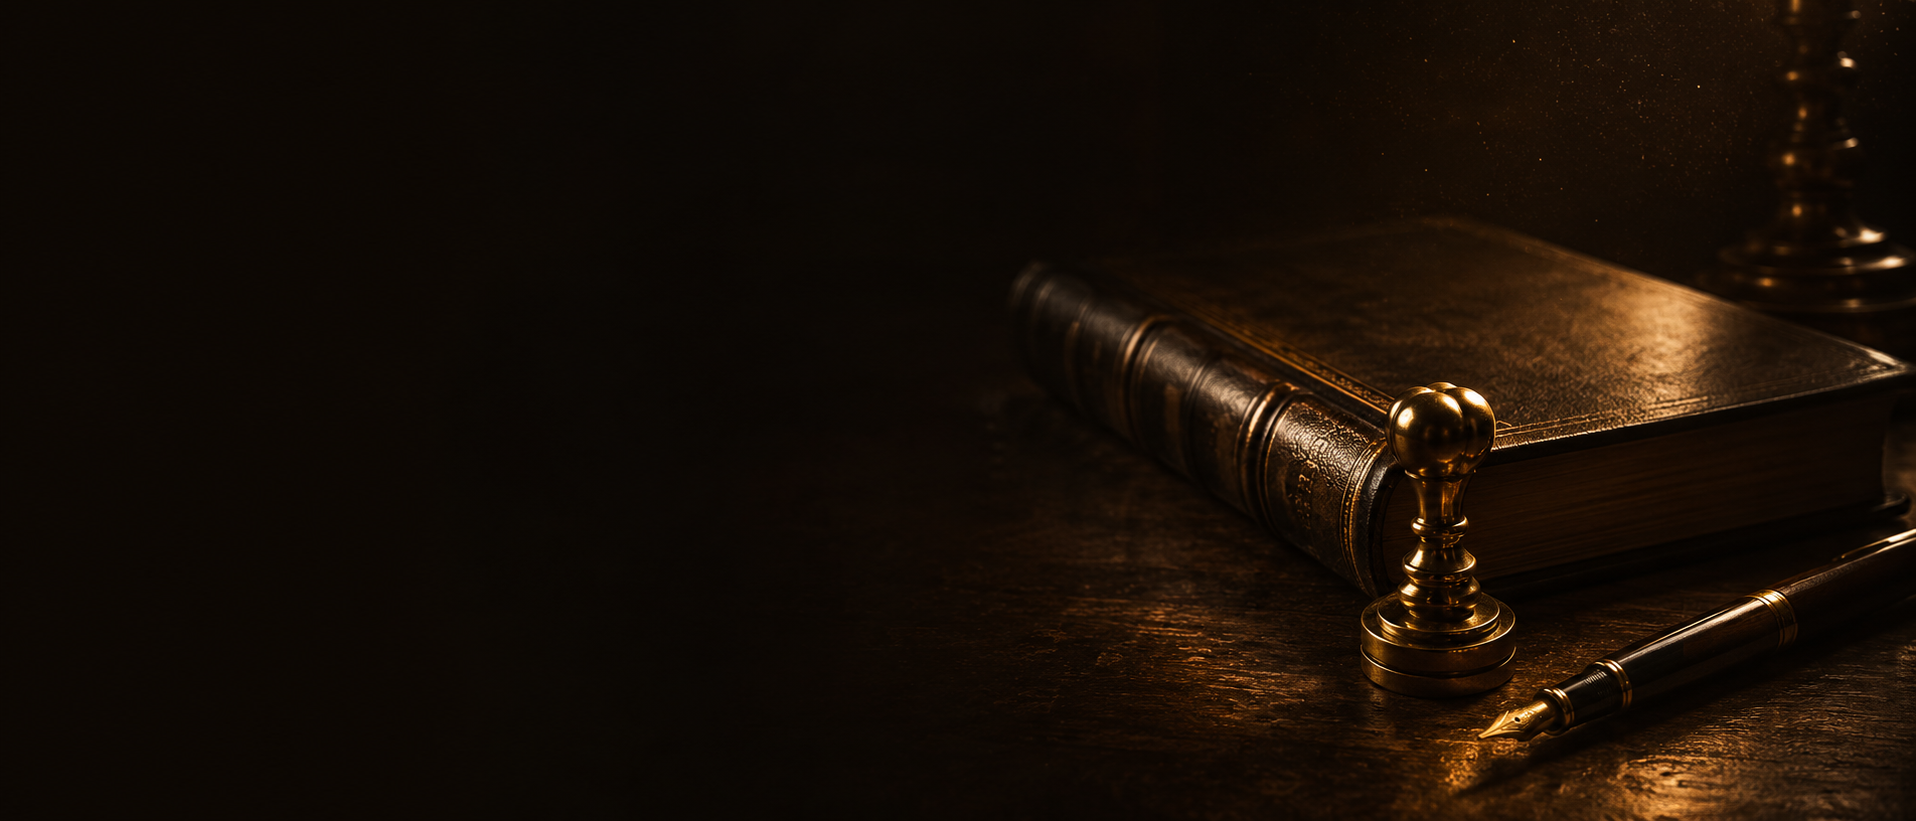
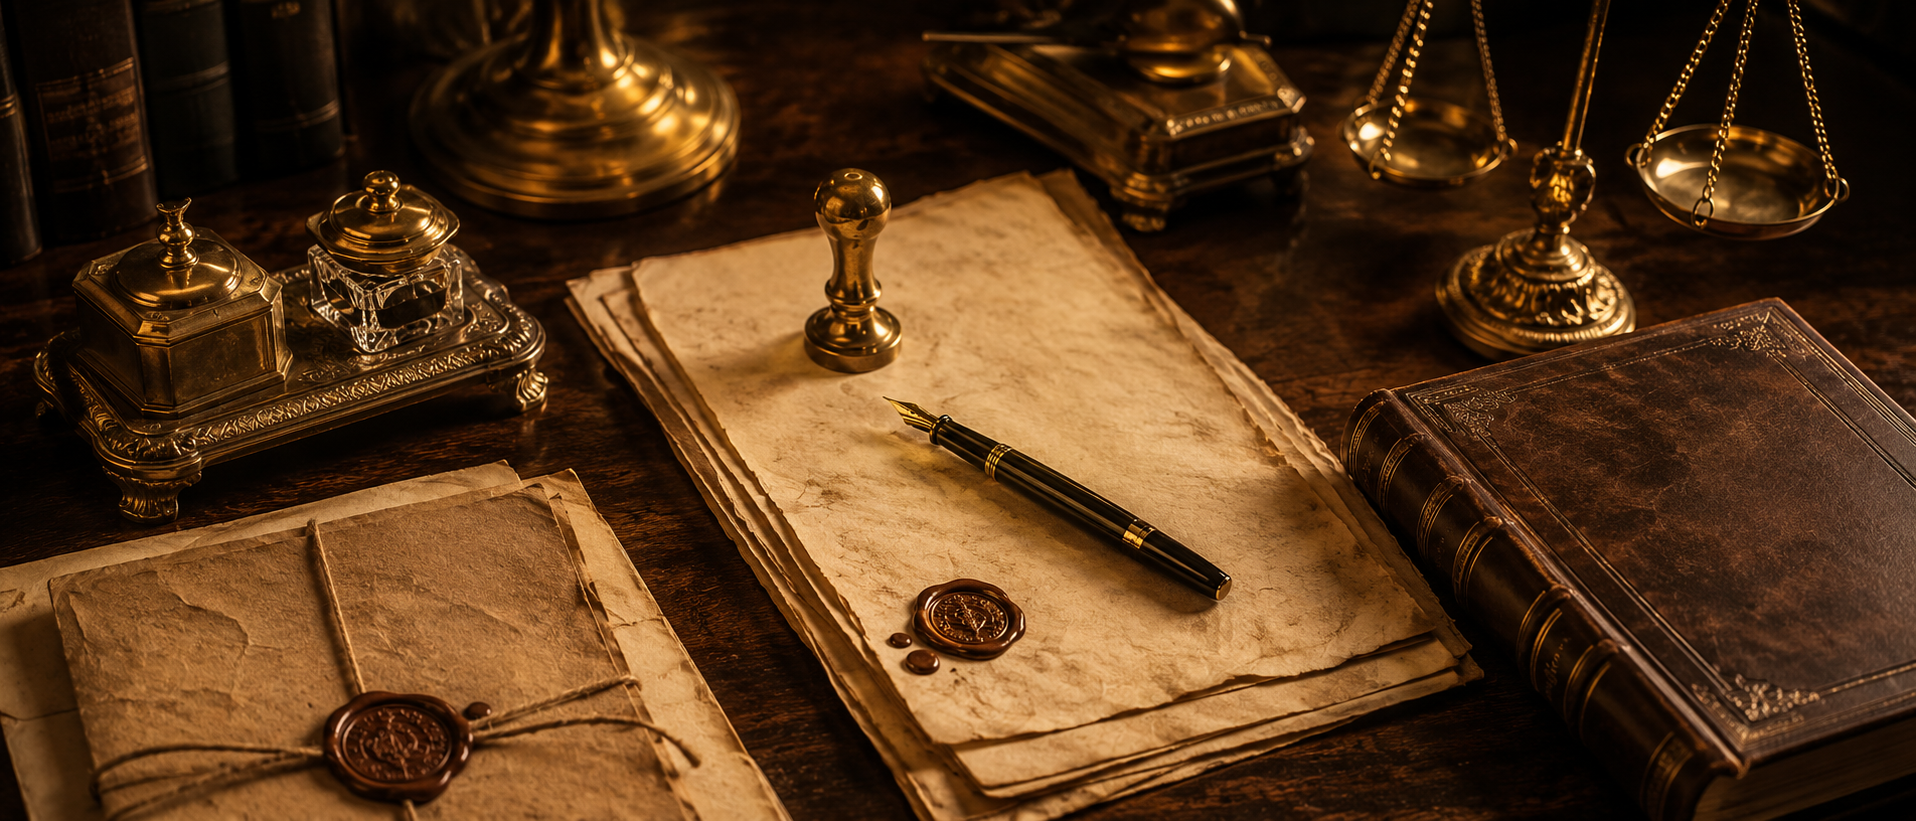
Anti-repetición: separar VI/VII/footer por función
- Ubicación (VI) = solo el lugar: dirección real (20 de Noviembre 810 Sur,
  Obispado) + mapa + Cómo llegar. Sin teléfonos/horario.
- Contacto (VII) = solo la acción: form + WhatsApp + teléfonos + horario.
- Footer adelgazado: marca + navegación + notario + enlace a contacto
  (sin repetir teléfonos/WhatsApp).
Resultado: teléfono/WhatsApp/horario aparecen 1 sola vez en la página.

diff --git a/src/sections/Ubicacion.tsx b/src/sections/Ubicacion.tsx
@@ -1,4 +1,4 @@
-import { MapPin, Clock, Phone, ExternalLink } from 'lucide-react'
+import { MapPin, ExternalLink } from 'lucide-react'
 import { BlurFade } from '@/components/ui/blur-fade'
 import { BorderBeam } from '@/components/ui/border-beam'
 import { Boxes } from '@/components/ui/background-boxes'
@@ -44,60 +44,33 @@ export function Ubicacion() {
         <Boxes />
 
         <div className="relative z-30 mx-auto grid max-w-7xl items-center gap-12 px-6 py-24 lg:grid-cols-[0.8fr_1.2fr] lg:px-20">
-          <BlurFade inView className="flex flex-col justify-center gap-4">
-            {[
-              {
-                icon: MapPin,
-                main: CONTACT.city,
-                sub: 'Primer Distrito Registral · Notaría Pública No. 18',
-              },
-              {
-                icon: Phone,
-                main: CONTACT.phones.join('  ·  '),
-                sub: 'Atención telefónica directa',
-                links: CONTACT.phones,
-              },
-              {
-                icon: Clock,
-                main: 'Lunes a viernes',
-                sub: 'Horario de oficina',
-              },
-            ].map((item, i) => (
-              <BlurFade key={i} inView delay={0.1 * i}>
-                <div className="group flex items-start gap-4 rounded-sm border border-gold-400/15 bg-ink/60 p-5 backdrop-blur-sm transition-colors duration-300 hover:border-gold-400/40">
-                  <item.icon className="mt-0.5 h-5 w-5 shrink-0 text-gold-400 transition-transform duration-300 group-hover:scale-110" />
-                  <div>
-                    {item.links ? (
-                      <div className="flex flex-col gap-0.5">
-                        {item.links.map((p) => (
-                          <a
-                            key={p}
-                            href={`tel:+52${p.replace(/-/g, '')}`}
-                            className="text-base text-cream/90 transition-colors hover:text-gold-400"
-                          >
-                            {p}
-                          </a>
-                        ))}
-                      </div>
-                    ) : (
-                      <p className="text-base text-cream/90">{item.main}</p>
-                    )}
-                    <p className="mt-1 text-xs text-cream/50">{item.sub}</p>
-                  </div>
-                </div>
-              </BlurFade>
-            ))}
+          <BlurFade inView className="flex flex-col justify-center">
+            <p className="mb-5 text-[10px] font-medium uppercase tracking-[0.4em] text-gold-600">
+              Nuestra oficina
+            </p>
+            <div className="flex items-start gap-5">
+              <MapPin className="mt-1.5 h-6 w-6 shrink-0 text-gold-400" />
+              <div>
+                <p className="font-display text-2xl font-normal leading-tight text-gold-100">
+                  {CONTACT.address}
+                </p>
+                <p className="mt-2 text-sm text-cream/70">{CONTACT.addressLine2}</p>
+                <p className="mt-1 text-sm text-cream/70">{CONTACT.city}</p>
+                <p className="mt-3 text-xs uppercase tracking-[0.2em] text-gold-600">
+                  Primer Distrito Registral
+                </p>
+              </div>
+            </div>
 
-            <BlurFade inView delay={0.35}>
-              <a
-                href={CONTACT.mapsLink}
-                target="_blank"
-                rel="noopener noreferrer"
-                className="mt-2 inline-flex items-center gap-2 text-[10px] font-medium uppercase tracking-[0.25em] text-gold-400 transition-colors hover:text-gold-200"
-              >
-                Cómo llegar <ExternalLink className="h-3.5 w-3.5" />
-              </a>
-            </BlurFade>
+            <a
+              href={CONTACT.mapsLink}
+              target="_blank"
+              rel="noopener noreferrer"
+              className="group mt-8 inline-flex w-fit items-center gap-3 rounded-sm border border-gold-400 px-7 py-3.5 text-[10px] font-medium uppercase tracking-[0.25em] text-gold-400 transition-colors duration-300 hover:bg-gold-400 hover:text-ink"
+            >
+              Cómo llegar
+              <ExternalLink className="h-3.5 w-3.5" />
+            </a>
           </BlurFade>
 
           {/* Mapa enmarcado premium */}

diff --git a/src/components/Footer.tsx b/src/components/Footer.tsx
@@ -1,10 +1,9 @@
 import type { ComponentProps, ReactNode } from 'react'
 import { motion, useReducedMotion } from 'motion/react'
-import { MessageCircle, Phone } from 'lucide-react'
 import { Logo } from './Logo'
 import { Boxes } from '@/components/ui/background-boxes'
 import { BorderBeam } from '@/components/ui/border-beam'
-import { CONTACT, WHATSAPP_URL } from '@/data/services'
+import { CONTACT } from '@/data/services'
 
 /** Animación de aparición (efferd/footer-section): blur-in + desplazamiento + stagger */
 type ViewAnimationProps = {
@@ -57,15 +56,6 @@ export function Footer() {
               <br />
               Fe pública · Escritura pública · Certeza jurídica.
             </p>
-            <a
-              href={WHATSAPP_URL}
-              target="_blank"
-              rel="noopener noreferrer"
-              className="mt-7 inline-flex items-center gap-2.5 rounded-sm border border-gold-400/40 px-5 py-3 text-[10px] font-medium uppercase tracking-[0.25em] text-gold-400 transition-colors duration-300 hover:bg-gold-400 hover:text-ink"
-            >
-              <MessageCircle className="h-4 w-4" />
-              Escríbenos por WhatsApp
-            </a>
           </AnimatedContainer>
 
           {/* Navegación */}
@@ -90,37 +80,24 @@ export function Footer() {
             </nav>
           </AnimatedContainer>
 
-          {/* Contacto */}
+          {/* Notario */}
           <AnimatedContainer delay={0.3}>
             <h4 className="mb-5 text-[10px] font-semibold uppercase tracking-[0.3em] text-gold-600">
-              Contacto
-            </h4>
-            <p className="mb-4 text-sm text-cream/70">
               Notario Titular
-              <br />
-              <span className="text-cream/90">Salvador Martínez Martínez</span>
+            </h4>
+            <p className="font-display text-xl font-normal text-cream/90">
+              Salvador Martínez Martínez
             </p>
-            <div className="space-y-2">
-              {CONTACT.phones.map((p) => (
-                <a
-                  key={p}
-                  href={`tel:+52${p.replace(/-/g, '')}`}
-                  className="flex items-center gap-2.5 text-sm text-cream/70 transition-colors hover:text-gold-400"
-                >
-                  <Phone className="h-3.5 w-3.5 text-gold-400" />
-                  {p}
-                </a>
-              ))}
-              <a
-                href={WHATSAPP_URL}
-                target="_blank"
-                rel="noopener noreferrer"
-                className="flex items-center gap-2.5 text-sm text-cream/70 transition-colors hover:text-gold-400"
-              >
-                <MessageCircle className="h-3.5 w-3.5 text-gold-400" />
-                {CONTACT.whatsappDisplay}
-              </a>
-            </div>
+            <p className="mt-2 text-sm text-cream/55">
+              Notaría Pública No. 18 · Primer Distrito Registral
+            </p>
+            <a
+              href="#contacto"
+              className="group mt-6 inline-flex items-center gap-2 text-[10px] font-medium uppercase tracking-[0.25em] text-gold-400 transition-colors hover:text-gold-200"
+            >
+              <span className="h-px w-6 bg-gold-400 transition-all duration-300 group-hover:w-9" />
+              Contacto y citas
+            </a>
           </AnimatedContainer>
         </div>
 

diff --git a/src/sections/Contacto.tsx b/src/sections/Contacto.tsx
@@ -1,6 +1,6 @@
 import { useState, type FormEvent } from 'react'
 import { motion } from 'motion/react'
-import { MessageCircle, Phone, Clock, MapPin } from 'lucide-react'
+import { MessageCircle, Phone, Clock } from 'lucide-react'
 import { LampContainer } from '@/components/ui/lamp'
 import { ShineBorder } from '@/components/ui/shine-border'
 import { BorderBeam } from '@/components/ui/border-beam'
@@ -106,13 +106,6 @@ export function Contacto() {
               <div>
                 <p className="text-sm text-cream/90">Lunes a viernes</p>
                 <p className="text-xs text-cream/55">Horario de oficina</p>
-              </div>
-            </div>
-            <div className="flex items-start gap-3 rounded-sm border border-gold-400/15 bg-ink/45 p-4 backdrop-blur-sm transition-colors duration-300 hover:border-gold-400/40 sm:col-span-2">
-              <MapPin className="mt-0.5 h-4 w-4 shrink-0 text-gold-400" />
-              <div>
-                <p className="text-sm text-cream/90">{CONTACT.city}</p>
-                <p className="text-xs text-cream/55">Primer Distrito Registral · Notaría Pública No. 18</p>
               </div>
             </div>
           </div>

diff --git a/src/data/services.ts b/src/data/services.ts
@@ -124,6 +124,8 @@ export const CONTACT = {
   whatsappDisplay: '+52 81 1999 2341',
   phones: ['81-1159-2760', '81-8342-0114'],
   city: 'Monterrey, Nuevo León',
+  address: '20 de Noviembre 810 Sur',
+  addressLine2: 'Col. María Luisa (Obispado) · C.P. 64060',
   mapsEmbed:
     'https://www.google.com/maps/embed?pb=!1m14!1m8!1m3!1d1730.099481223643!2d-100.33607601144064!3d25.669848942796648!3m2!1i1024!2i768!4f13.1!3m3!1m2!1s0x0%3A0xc926e49362d57985!2sNotar%C3%ADa%20P%C3%BAblica%20No.%2018!5e0!3m2!1ses-419!2smx!4v1628529760435!5m2!1ses-419!2smx',
   mapsLink: 'https://maps.google.com/?cid=14494436507936989061',
